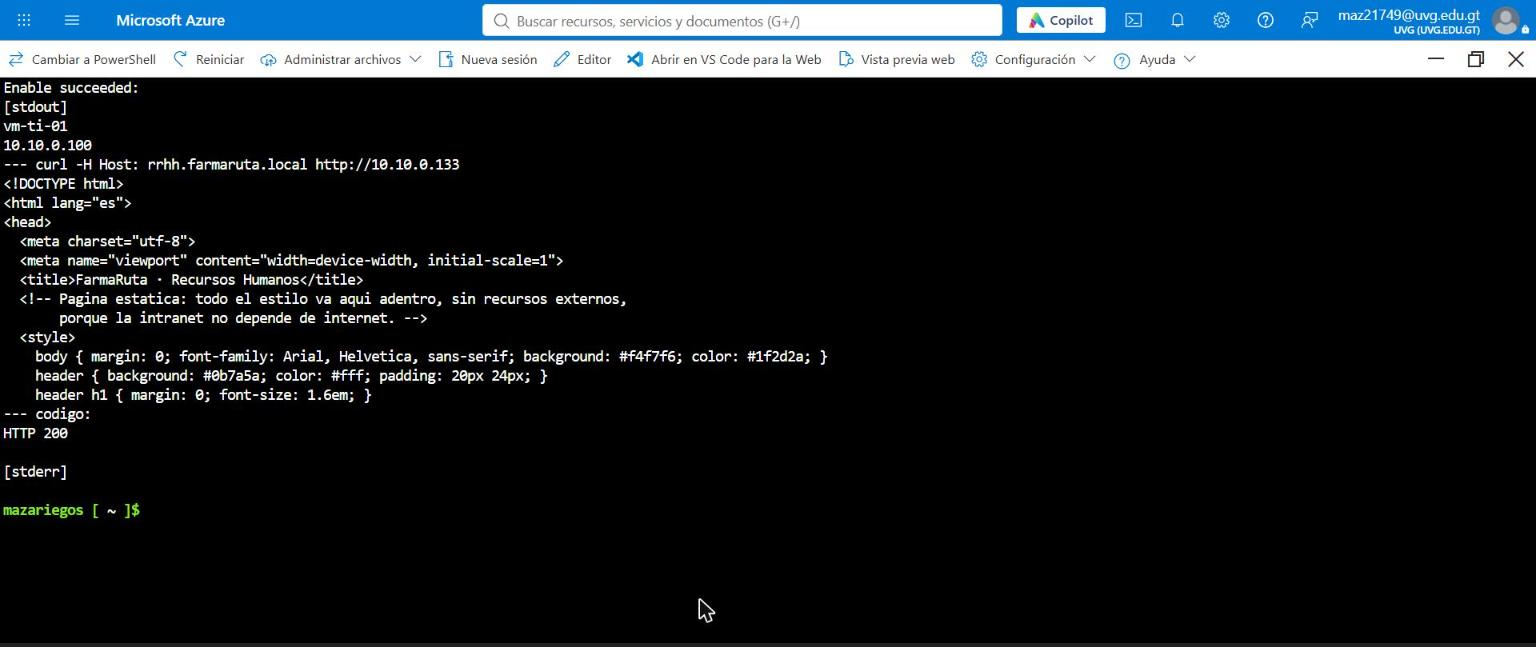
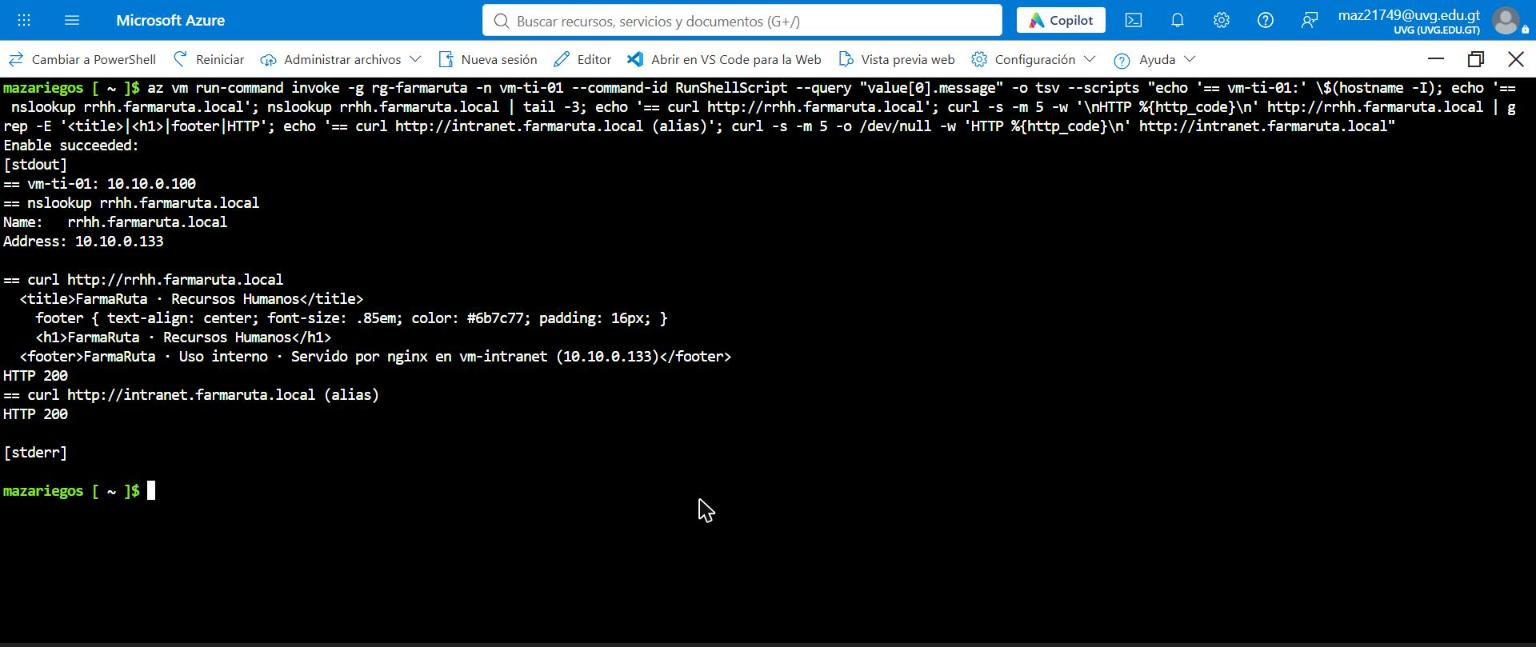
docs(intranet): captura desde ti por nombre usando el dns interno

Changed region(s): [[0.0, 0.1236, 1.0, 0.8037], [0.4375, 0.9274, 0.4688, 0.9583], [0.4375, 0.7728, 0.4688, 0.8037]]

diff --git a/docs/fase2/intranet_nginx.md b/docs/fase2/intranet_nginx.md
@@ -56,7 +56,7 @@ Esto solo permite **salir** (para descargar paquetes); no abre ninguna entrada d
 |---|---|---|---|---|
 | 1 | vm-intranet | `nginx -t` + `ss -tlnp` | ✅ `test is successful`, escucha solo en `10.10.0.133:80`, `HTTP 200` | `01_nginx_t_instalacion.jpg` |
 | 2 | vm-ventas-01 | `nslookup` + `curl http://rrhh.farmaruta.local` y `http://intranet.farmaruta.local` | ✅ el DNS interno resuelve a 10.10.0.133, devuelve el HTML de RRHH con `HTTP 200`; el alias también da `HTTP 200` | `02_curl_desde_ventas.jpg` |
-| 3 | vm-ti-01 | `curl -H "Host: rrhh.farmaruta.local" http://10.10.0.133` | ✅ HTML de RRHH, `HTTP 200` | `03_curl_desde_ti.jpg` |
+| 3 | vm-ti-01 | `nslookup` + `curl http://rrhh.farmaruta.local` y `http://intranet.farmaruta.local` | ✅ resuelve a 10.10.0.133, HTML de RRHH con `HTTP 200`; el alias también da `HTTP 200` | `03_curl_desde_ti.jpg` |
 | 4 | vm-visitas-01 | `curl -m 5 http://10.10.0.133` y `http://rrhh.farmaruta.local` | ✅ bloqueado: por IP da *timeout* (`exit 28`, el NSG descarta el paquete); por nombre ni siquiera resuelve (`exit 6`, Visitas no llega al DNS interno) | `04_curl_desde_visitas_bloqueado.jpg` |
 | 5 | Cloud Shell | `az vm list-ip-addresses` | ✅ vm-intranet solo tiene 10.10.0.133, sin IP pública | `05_vm_intranet_sin_ip_publica.jpg` |
 | 5b | Portal | vm-intranet → Información general → Redes | ✅ *Dirección IP pública: -*, *Dirección IP privada: 10.10.0.133* | `05b_portal_sin_ip_publica.jpg` |
